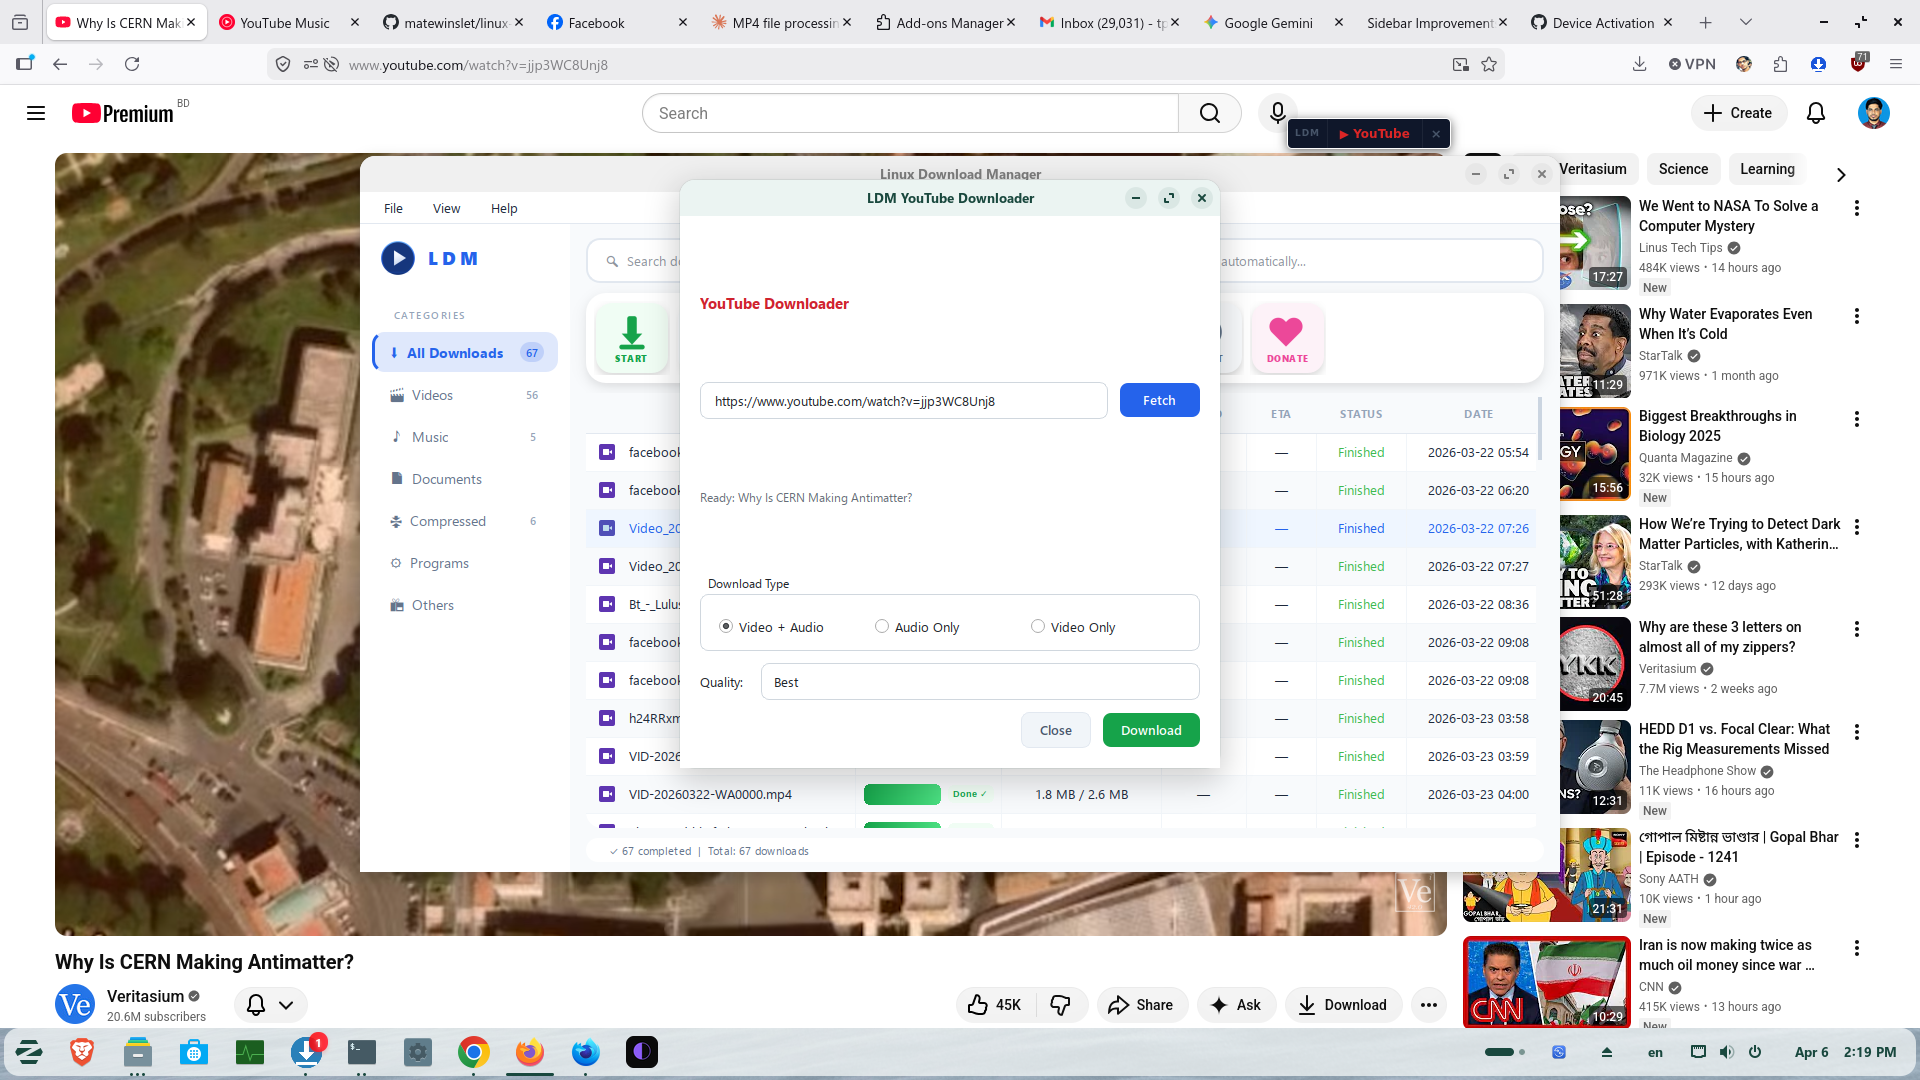
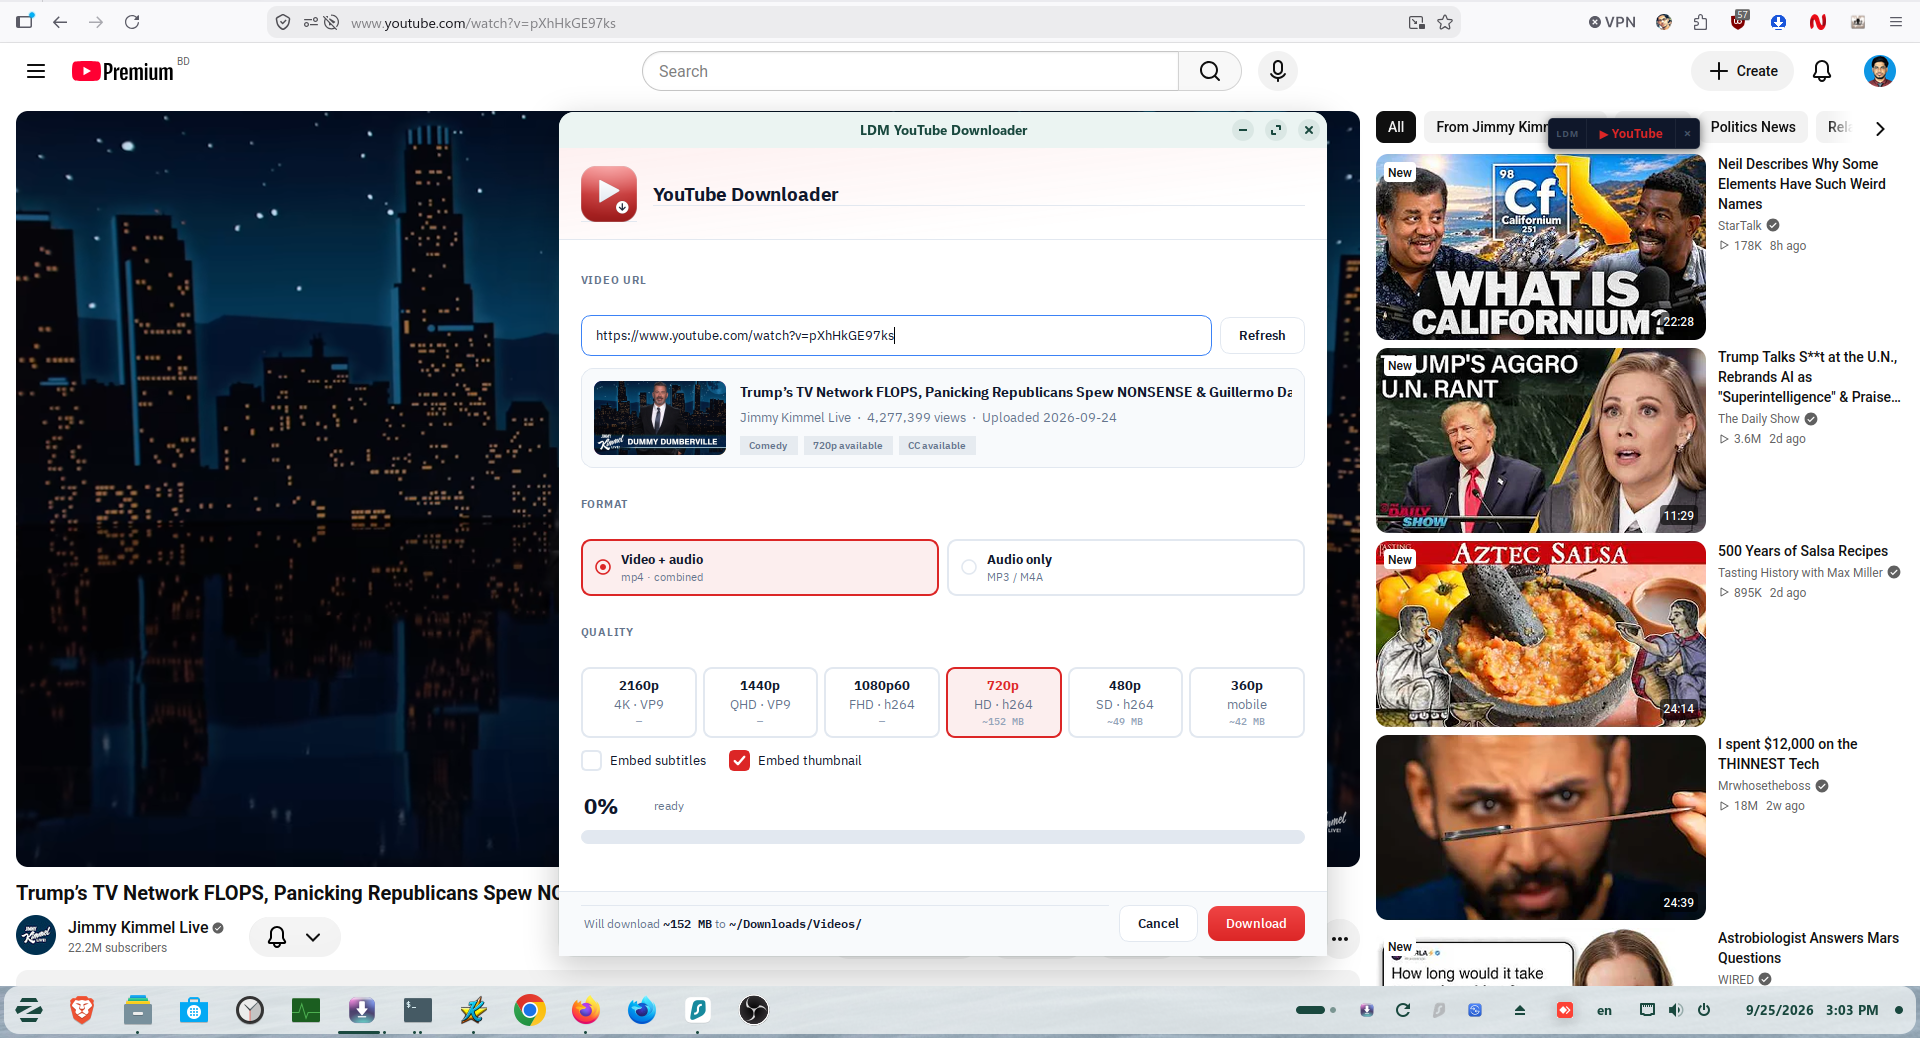
Refresh README screenshots
All nine screenshots retaken with the current UI, including the new
Download button with its stream-type tag. The YouTube page shot (02), which
existed but was never shown, now appears under "YouTube Downloader". The
two full-screen YouTube shots are cropped below the browser tab bar.

diff --git a/README.md b/README.md
@@ -15,6 +15,8 @@ A powerful download manager for Linux — with a Firefox extension, YouTube down
 ![Main Window](screenshots/01-main-window.png)
 
 ### YouTube Downloader
+![YouTube Capture Button](screenshots/02-youtube-page.png)
+
 ![YouTube Downloader](screenshots/07-youtube-downloader.png)
 
 ![YouTube Download Complete](screenshots/08-youtube-download-complete.png)
